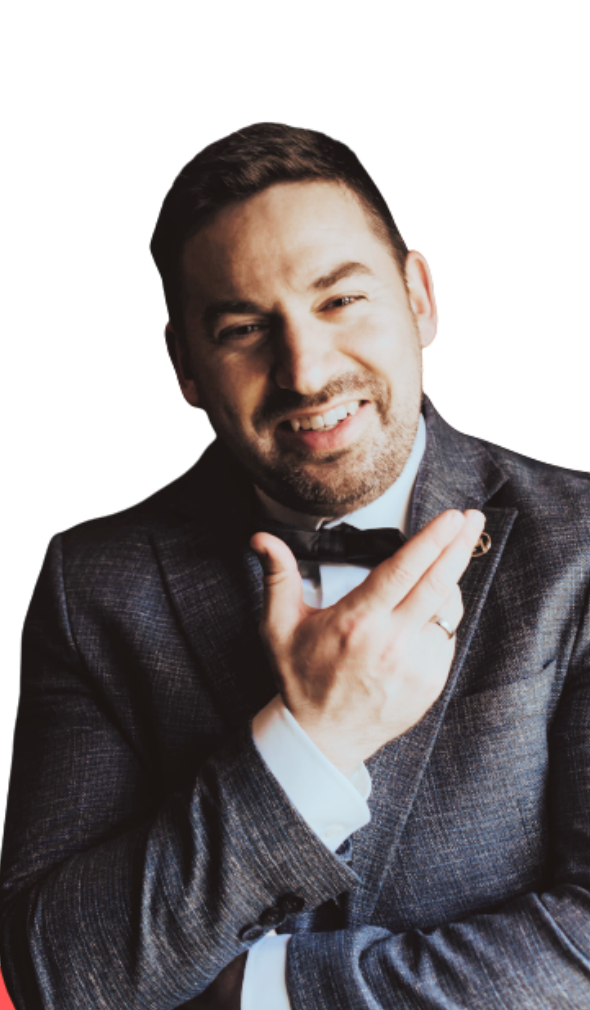
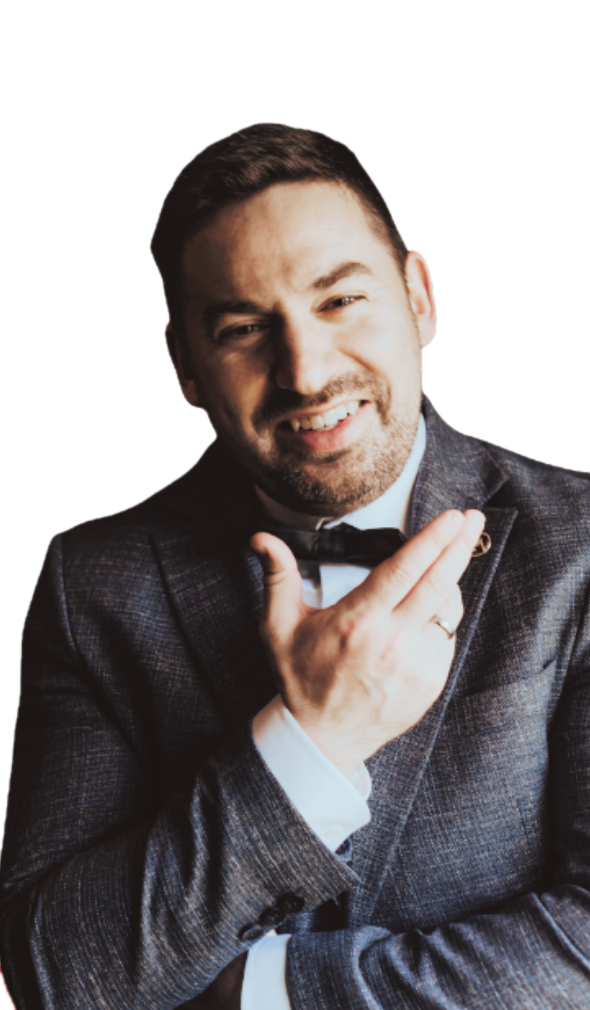
carousel cover: primary plate behind a cut-out photo
Cover photo background removed (transparent PNG), rounded plate drawn as SVG behind it,
qa() lets the photo and plate bleed to the right edge.

diff --git a/skills/linkedin-creative/scripts/creative.py b/skills/linkedin-creative/scripts/creative.py
@@ -211,7 +211,8 @@ h1.title mark{{{mark}}}
 .cs.cover .hd{{position:absolute;left:56px;top:280px;width:640px;z-index:2;display:flex;flex-direction:column;gap:12px;align-items:flex-start}}
 .cs.cover .hd div{{font-family:var(--display);font-weight:800;font-size:96px;line-height:1.05;color:var(--ink);letter-spacing:-.02em}}
 .cs.cover .hd p{{font-size:36px;line-height:1.3;color:var(--ink);margin-top:18px}}
-.cs.cover .photo{{position:absolute;right:20px;bottom:120px;width:480px;height:820px;object-fit:contain;object-position:bottom}}
+.cs.cover .plate{{position:absolute;right:0;bottom:0;width:580px;height:640px}}
+.cs.cover .photo{{position:absolute;right:0;bottom:0;width:470px;height:805px;object-fit:contain;object-position:bottom}}
 .cs.cover .nm{{position:absolute;left:56px;bottom:90px;font-family:var(--display);font-weight:800;font-size:56px;line-height:1.05;color:var(--ink)}}
 .cs.cover .nm .hl{{padding:4px 12px}}
 .cs .ctah{{font-family:var(--display);font-weight:800;font-size:96px;line-height:1.05;color:var(--ink);letter-spacing:-.02em;margin-top:120px}}
@@ -393,7 +394,10 @@ def slide_cover(brand: dict, lines, sub: str = "") -> str:
         mark = f'<div class="mark">{logo}<span>{esc(R.get("text", ""))}</span></div>'
     rows = "".join(f"<div>{_hl(t, h)}</div>" for t, h in lines)
     photo = brand.get("carousel", {}).get("cover_photo")
-    img = f'<img class="photo" src="{asset(brand, photo)}">' if photo else ""
+    # plate = primary-colour shape behind the cut-out photo (rounded corners via a same-colour stroke)
+    plate = ('<svg class="plate" viewBox="0 0 580 640"><path d="M40 680 L40 250 L400 40 L620 160 L620 680 Z" '
+             'fill="var(--primary)" stroke="var(--primary)" stroke-width="70" stroke-linejoin="round"/></svg>')
+    img = f'{plate}<img class="photo" src="{asset(brand, photo)}">' if photo else ""
     first, _, last = name.rpartition(" ")
     nm = f'<div class="nm">{esc(first)}<br>{_hl(last, True)}</div>' if name else ""
     return (f'<section class="canvas cs cover">{mark}{_go()}{img}<div class="hd">{rows}'
@@ -540,6 +544,7 @@ window.addEventListener('load', async () => {
       const r = el.getBoundingClientRect();
       if (!r.width || !r.height) return;
       let why = '';
+      if (el.closest('.cs.cover .photo, .cs.cover .plate')) return;  // bleed to the edge by design
       if (r.right > cr.right - 8 || r.left < cr.left + 8) why = 'sticks out sideways';
       else if (r.bottom > cr.bottom + 1) why = 'below the canvas';
       else if (fr && r.bottom > fr.top + 1 && !el.closest('.canvas > .swipe')) why = 'runs into the footer';
